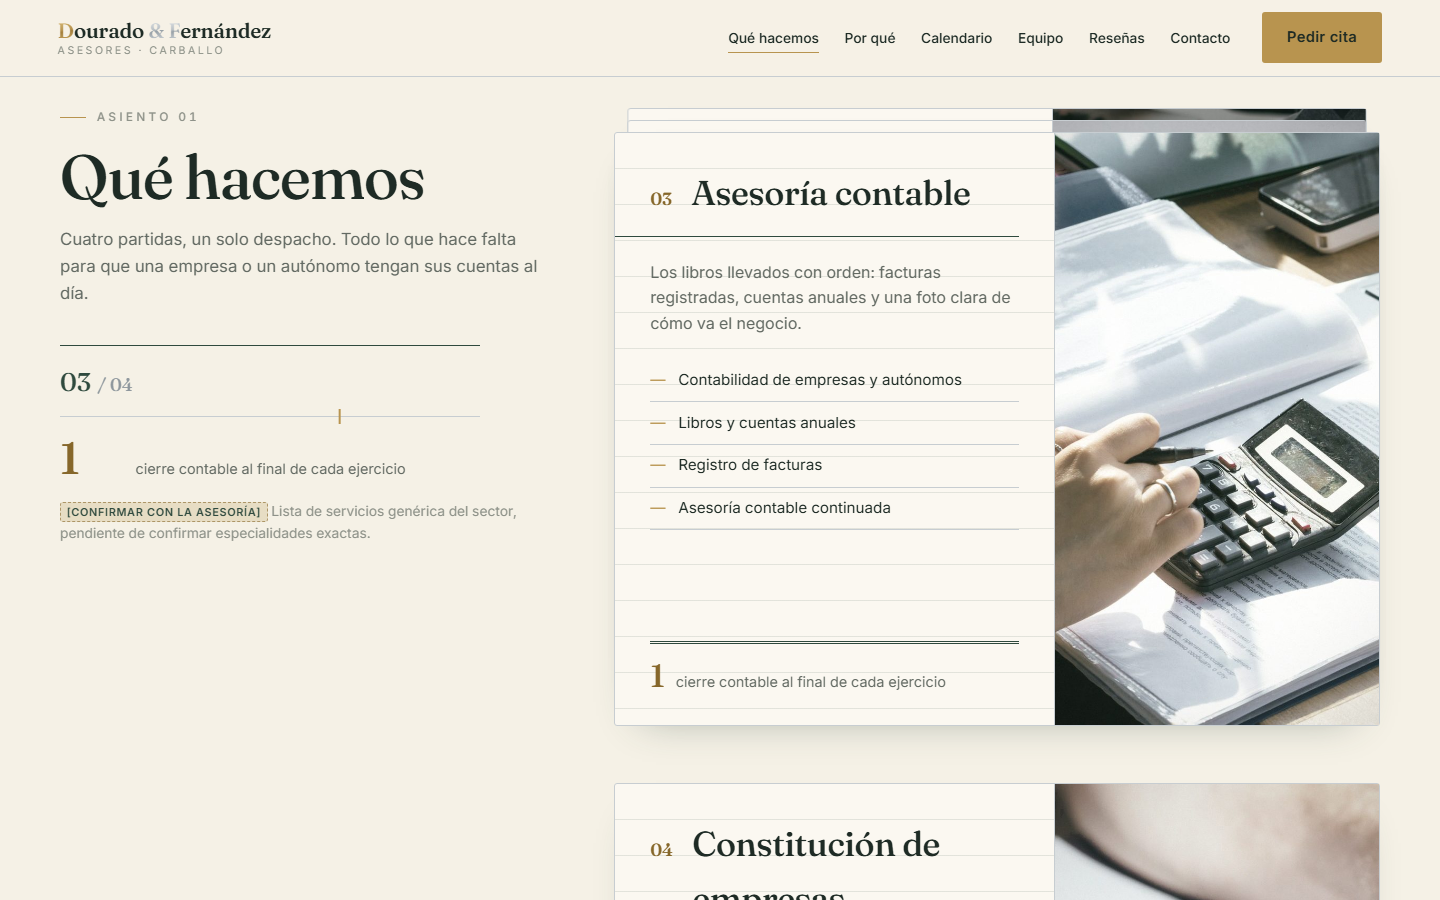
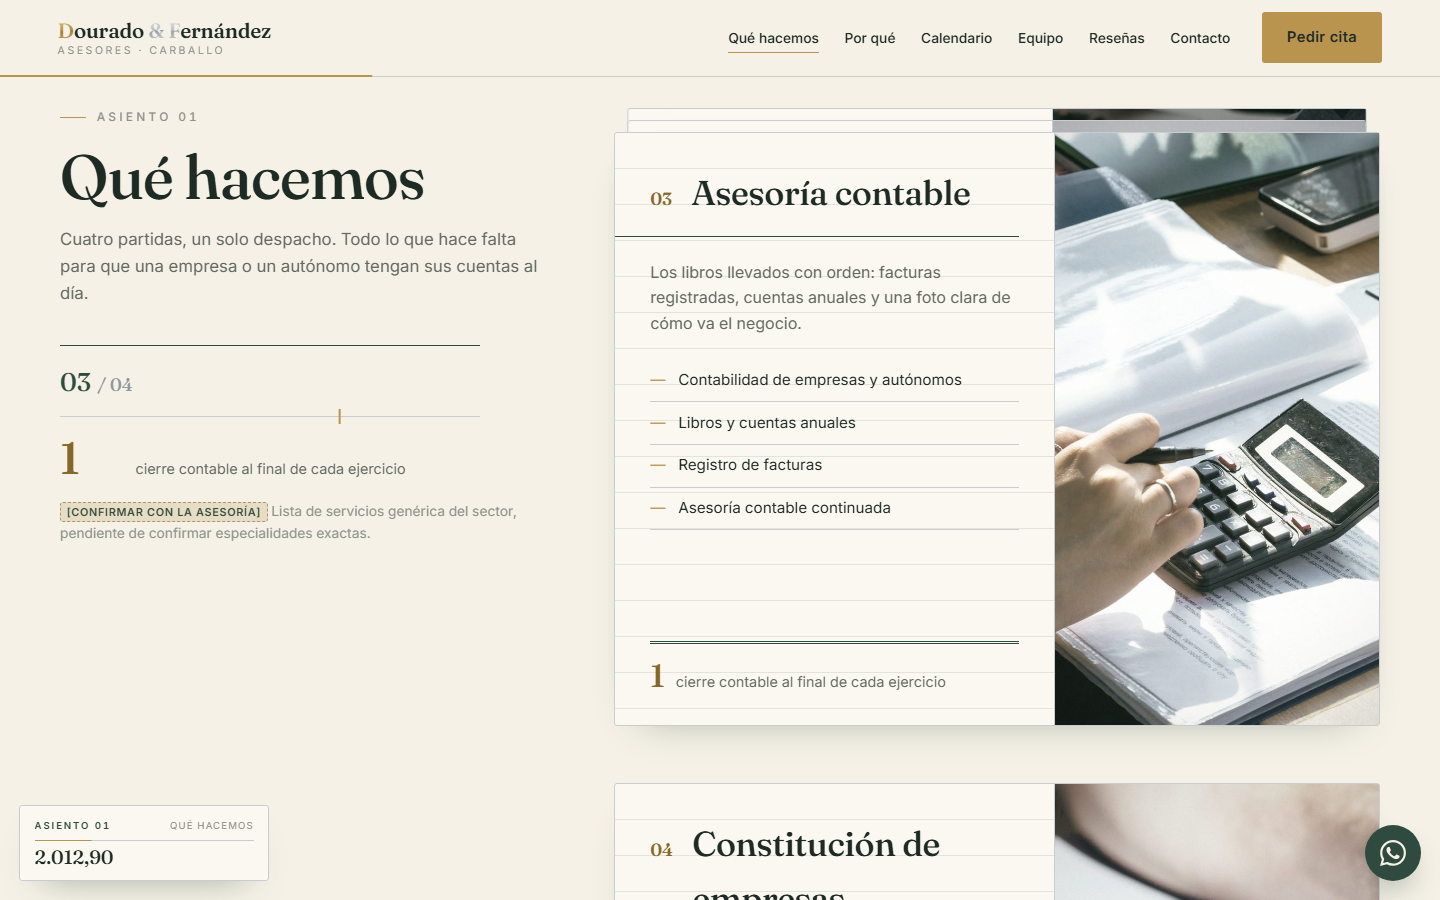
WhatsApp flotante y progreso de scroll como saldo que cuadra
Regla de oro bajo la cabecera y ficha fija con el asiento actual y una
cifra que cuenta de 0,00 a 7.786,00 con el scroll y cierra con ✓ Cuadra.
Botón de WhatsApp magnético con etiqueta desplegable; el número (fijo
del despacho) queda marcado como pendiente de confirmar. 66/66 pruebas.

Changed region(s): [[0.0312, 0.9022, 0.1562, 0.9956], [0.9375, 0.9022, 1.0, 0.9956], [0.125, 0.9022, 0.1562, 0.9333]]

diff --git a/scripts/verify.js b/scripts/verify.js
@@ -92,6 +92,15 @@ const angulo = m => Math.round(Math.atan2(m.b, m.a) * 180 / Math.PI * 100) / 100
 
     await page.screenshot({ path: path.join(CAPS, 'hero-1440.png') });
 
+    /* en la portada, la ficha de progreso y el WhatsApp aún no se ven y el saldo está a 0 */
+    const flotAntes = await page.evaluate(() => ({
+      prog: parseFloat(getComputedStyle(document.querySelector('.progreso')).opacity),
+      wa: parseFloat(getComputedStyle(document.querySelector('.whatsapp-wrap')).opacity),
+      regla: new DOMMatrix(getComputedStyle(document.querySelector('.top-progreso')).transform).a,
+      saldo: document.querySelector('[data-progreso-cifra]').textContent.trim()
+    }));
+    ok('en la portada los flotantes están ocultos y el saldo a 0,00', flotAntes.prog < 0.05 && flotAntes.wa < 0.05 && flotAntes.regla < 0.02 && flotAntes.saldo === '0,00', flotAntes);
+
     /* ---------- 2. cookies ---------- */
     ok('el aviso de cookies aparece', await page.isVisible('.cookie-banner'));
     await page.click('.cookie-ack');
@@ -210,6 +219,43 @@ const angulo = m => Math.round(Math.atan2(m.b, m.a) * 180 / Math.PI * 100) / 100
       claro: document.querySelector('.top').classList.contains('top--claro')
     }));
     ok('la cabecera pasa a tinta clara solo cuando el pie verde queda debajo', pie.claro === pie.solapa, pie);
+
+    /* ---------- 7b. progreso de scroll y WhatsApp ---------- */
+    await page.waitForTimeout(700);
+    const flotFin = await page.evaluate(() => ({
+      prog: parseFloat(getComputedStyle(document.querySelector('.progreso')).opacity),
+      wa: parseFloat(getComputedStyle(document.querySelector('.whatsapp-wrap')).opacity),
+      regla: new DOMMatrix(getComputedStyle(document.querySelector('.top-progreso')).transform).a,
+      marca: new DOMMatrix(getComputedStyle(document.querySelector('.progreso-marca')).transform).a,
+      saldo: document.querySelector('[data-progreso-cifra]').textContent.trim(),
+      cuadra: document.querySelector('.progreso').classList.contains('progreso--cuadra'),
+      check: parseFloat(getComputedStyle(document.querySelector('.progreso-check')).opacity),
+      asiento: document.querySelector('[data-progreso-num]').textContent.trim(),
+      href: document.querySelector('.whatsapp').href
+    }));
+    ok('al final del scroll la regla de oro llega al 100 %', flotFin.regla > 0.99 && flotFin.marca > 0.99, flotFin);
+    ok('el saldo del progreso cuadra en 7.786,00 con ✓', flotFin.saldo === '7.786,00' && flotFin.cuadra && flotFin.check > 0.95, flotFin);
+    ok('la ficha de progreso muestra el último asiento', flotFin.asiento === 'Asiento 06', flotFin.asiento);
+    ok('la ficha de progreso y el WhatsApp son visibles fuera de la portada', flotFin.prog > 0.95 && flotFin.wa > 0.95, flotFin);
+    ok('el WhatsApp enlaza a wa.me con el teléfono del despacho', flotFin.href.startsWith('https://wa.me/34981702760'), flotFin.href);
+
+    /* a mitad de página el saldo va por la mitad y el asiento es intermedio */
+    await page.evaluate(() => window.scrollTo(0, (document.body.scrollHeight - innerHeight) * 0.5));
+    await page.waitForTimeout(900);
+    const flotMitad = await page.evaluate(() => ({
+      saldo: parseFloat(document.querySelector('[data-progreso-cifra]').textContent.replace('.', '').replace(',', '.')),
+      cuadra: document.querySelector('.progreso').classList.contains('progreso--cuadra'),
+      asiento: document.querySelector('[data-progreso-num]').textContent.trim()
+    }));
+    ok('a mitad de página el saldo va por la mitad y aún no cuadra', flotMitad.saldo > 3500 && flotMitad.saldo < 4300 && !flotMitad.cuadra && flotMitad.asiento !== 'Asiento 01' && flotMitad.asiento !== 'Asiento 06', flotMitad);
+
+    /* la etiqueta del WhatsApp se despliega al pasar el ratón */
+    const anchoAntes = await page.evaluate(() => document.querySelector('.whatsapp').getBoundingClientRect().width);
+    await page.hover('.whatsapp');
+    await page.waitForTimeout(700);
+    const anchoDespues = await page.evaluate(() => document.querySelector('.whatsapp').getBoundingClientRect().width);
+    ok('la etiqueta del WhatsApp se despliega al pasar el ratón', anchoDespues > anchoAntes + 80, { anchoAntes, anchoDespues });
+    await page.screenshot({ path: path.join(CAPS, 'progreso-1440.png') });
     await page.screenshot({ path: path.join(CAPS, 'pie-1440.png') });
 
     await page.close();
@@ -239,6 +285,14 @@ const angulo = m => Math.round(Math.atan2(m.b, m.a) * 180 / Math.PI * 100) / 100
     ok('reduced-motion: cifras, total y sello ya resueltos', estado.cifras && estado.total === '7.786,00' && parseFloat(estado.sello) > 0.95, estado);
     ok('reduced-motion: los bloques ya son visibles', parseFloat(estado.bloque) > 0.95 && parseFloat(estado.wm) > 0.95, estado);
     ok('reduced-motion: sin smooth scroll (Lenis)', estado.lenis === false, estado);
+    await page.evaluate(() => window.scrollTo(0, document.body.scrollHeight));
+    await page.waitForTimeout(500);
+    const rmProg = await page.evaluate(() => ({
+      saldo: document.querySelector('[data-progreso-cifra]').textContent.trim(),
+      regla: new DOMMatrix(getComputedStyle(document.querySelector('.top-progreso')).transform).a,
+      wa: parseFloat(getComputedStyle(document.querySelector('.whatsapp-wrap')).opacity)
+    }));
+    ok('reduced-motion: el progreso sigue el scroll sin suavizado y el WhatsApp está visible', rmProg.saldo === '7.786,00' && rmProg.regla > 0.99 && rmProg.wa > 0.95, rmProg);
     ok('reduced-motion sin errores JS', page.errores.length === 0, page.errores);
     await page.screenshot({ path: path.join(CAPS, 'reduced-motion.png') });
     await page.close();
@@ -276,6 +330,17 @@ const angulo = m => Math.round(Math.atan2(m.b, m.a) * 180 / Math.PI * 100) / 100
       });
       ok('a 400px el hero apila texto y libro en una columna', libro.apiladas, libro);
       ok('a 400px el libro cabe sin recortar cifras', !libro.desborda && libro.recortes === 0, libro);
+      await page.evaluate(() => window.scrollTo(0, document.body.scrollHeight / 2));
+      await page.waitForTimeout(900);
+      const flotMovil = await page.evaluate(() => {
+        const wa = document.querySelector('.whatsapp').getBoundingClientRect();
+        return {
+          fichaOculta: getComputedStyle(document.querySelector('.progreso')).display === 'none',
+          waVisible: parseFloat(getComputedStyle(document.querySelector('.whatsapp-wrap')).opacity) > 0.95 && wa.right <= innerWidth && wa.bottom <= innerHeight,
+          regla: new DOMMatrix(getComputedStyle(document.querySelector('.top-progreso')).transform).a
+        };
+      });
+      ok('a 400px se oculta la ficha de progreso, queda la regla y el WhatsApp cabe en pantalla', flotMovil.fichaOculta && flotMovil.waVisible && flotMovil.regla > 0.3, flotMovil);
       await page.screenshot({ path: path.join(CAPS, 'hero-400.png') });
     }
     await page.evaluate(() => window.scrollTo(0, document.body.scrollHeight / 2));

diff --git a/css/style.css b/css/style.css
@@ -418,6 +418,50 @@ figcaption { font-size: 0.74rem; color: var(--tinta-3); margin-top: 0.6rem; lett
 .pie-legal { display: flex; gap: 1.4rem; margin: 0; font-size: 0.84rem; }
 .pie-copy { margin-left: auto; font-size: 0.8rem; color: color-mix(in srgb, var(--crema) 60%, transparent); margin-bottom: 0; }
 
+/* ---------- progreso de scroll: la regla y el saldo que cuadra ---------- */
+
+.top-progreso {
+  position: absolute; left: 0; right: 0; bottom: -1px; height: 2px; background: var(--oro);
+  transform-origin: left center; transform: scaleX(0); pointer-events: none;
+}
+.progreso {
+  position: fixed; left: 1.2rem; bottom: 1.2rem; z-index: 40; width: 250px;
+  display: grid; gap: 0.45rem; padding: 0.75rem 0.9rem 0.7rem;
+  background: color-mix(in srgb, var(--papel-claro) 94%, transparent); backdrop-filter: blur(8px);
+  border: 1px solid var(--plata); border-radius: var(--radio);
+  box-shadow: 0 18px 36px -24px color-mix(in srgb, var(--verde) 55%, transparent);
+  font-size: 0.6rem; letter-spacing: 0.2em; text-transform: uppercase; color: var(--tinta-3);
+  opacity: 0; transform: translateY(12px); pointer-events: none;
+}
+.no-js .progreso, .no-js .top-progreso, .no-js .whatsapp-wrap { display: none; }
+.progreso-asiento { display: flex; justify-content: space-between; gap: 0.6rem; white-space: nowrap; overflow: hidden; }
+.progreso-asiento b { color: var(--verde); font-weight: 600; }
+.progreso-asiento span { overflow: hidden; text-overflow: ellipsis; letter-spacing: 0.12em; }
+.progreso-regla { position: relative; height: 1px; background: var(--plata); }
+.progreso-marca { position: absolute; inset: 0; background: var(--oro); transform-origin: left center; transform: scaleX(0); }
+.progreso-saldo { display: flex; justify-content: space-between; align-items: baseline; gap: 0.6rem; letter-spacing: 0; text-transform: none; }
+.progreso-saldo .serif { font-size: 1.2rem; color: var(--tinta); font-variant-numeric: tabular-nums; font-weight: 500; line-height: 1; transition: color 0.4s; }
+.progreso-check { font-size: 0.6rem; letter-spacing: 0.2em; text-transform: uppercase; font-weight: 600; color: var(--oro-tinta); opacity: 0; transform: translateX(6px); transition: opacity 0.4s, transform 0.4s; }
+.progreso--cuadra .progreso-check { opacity: 1; transform: none; }
+.progreso--cuadra .progreso-saldo .serif { color: var(--oro-tinta); }
+
+/* ---------- WhatsApp flotante ---------- */
+
+.whatsapp-wrap { position: fixed; right: 1.2rem; bottom: 1.2rem; z-index: 40; opacity: 0; transform: translateY(12px); }
+.whatsapp {
+  display: flex; align-items: center; flex-direction: row; height: 56px; border-radius: 999px;
+  background: var(--verde); color: var(--crema);
+  box-shadow: 0 16px 32px -16px color-mix(in srgb, var(--verde-oscuro) 80%, transparent);
+  transition: background-color 0.25s;
+}
+.whatsapp:hover { background: var(--verde-oscuro); }
+.whatsapp svg { width: 56px; height: 56px; padding: 15px; flex-shrink: 0; display: block; }
+.whatsapp-etiqueta {
+  max-width: 0; overflow: hidden; white-space: nowrap; font-size: 0.82rem; font-weight: 600; letter-spacing: 0.01em;
+  padding-left: 0; transition: max-width 0.45s cubic-bezier(0.2, 0.7, 0.2, 1), padding-left 0.45s;
+}
+.whatsapp:hover .whatsapp-etiqueta, .whatsapp:focus-visible .whatsapp-etiqueta { max-width: 240px; padding-left: 1.2rem; }
+
 /* ---------- cookies y diálogos ---------- */
 
 .cookie-banner {
@@ -455,7 +499,7 @@ html.lenis, html.lenis body { height: auto; }
   .gsap .regla-cifra, .gsap .libro-regla { transform: none; }
   .lc.cifra { color: var(--tinta); font-style: normal; }
   .hero-scroll span { animation: none; transform: none; }
-  .top, .btn, .top-nav a::after, .menu-btn span { transition: none; }
+  .top, .btn, .top-nav a::after, .menu-btn span, .whatsapp-etiqueta, .progreso-check, .progreso-saldo .serif { transition: none; }
 }
 
 /* ---------- responsive ---------- */
@@ -503,6 +547,8 @@ html.lenis, html.lenis body { height: auto; }
   .pie-datos { grid-template-columns: 1fr; }
   .pie-copy { margin-left: 0; }
   .cookie-banner { left: 0.6rem; right: 0.6rem; bottom: 0.6rem; }
+  .progreso { display: none; }   /* en móvil queda la regla de oro bajo la cabecera */
+  .whatsapp-wrap { right: 0.9rem; bottom: 0.9rem; }
   .tarjeta-cab, .tarjeta-cuerpo { padding-left: 1.3rem; padding-right: 1.3rem; }
   .tarjeta-cab { margin-right: 1.3rem; }
 }

diff --git a/index.html b/index.html
@@ -46,7 +46,7 @@
 <link rel="preconnect" href="https://fonts.googleapis.com">
 <link rel="preconnect" href="https://fonts.gstatic.com" crossorigin>
 <link href="https://fonts.googleapis.com/css2?family=Fraunces:ital,opsz,wght@0,9..144,300..700;1,9..144,300..600&family=Inter:wght@400;500;600&display=swap" rel="stylesheet">
-<link rel="stylesheet" href="css/style.css?v=1">
+<link rel="stylesheet" href="css/style.css?v=2">
 <script>document.documentElement.classList.remove('no-js');document.documentElement.classList.add('js');</script>
 </head>
 <body>
@@ -75,7 +75,24 @@
   <button class="menu-btn" type="button" aria-expanded="false" aria-controls="menu-movil" aria-label="Abrir menú">
     <span></span><span></span>
   </button>
+  <!-- progreso de scroll: la regla de oro avanza bajo la cabecera -->
+  <span class="top-progreso" aria-hidden="true"></span>
 </header>
+
+<!-- progreso de scroll como saldo: el asiento actual y una cifra que va cuadrando -->
+<div class="progreso" aria-hidden="true">
+  <span class="progreso-asiento"><b data-progreso-num>Asiento 01</b><span data-progreso-nombre>Qué hacemos</span></span>
+  <span class="progreso-regla"><span class="progreso-marca"></span></span>
+  <span class="progreso-saldo"><span class="serif" data-progreso-cifra>0,00</span><span class="progreso-check">✓ Cuadra</span></span>
+</div>
+
+<!-- WhatsApp: el número es el fijo del despacho; pendiente de confirmar que tiene WhatsApp -->
+<div class="whatsapp-wrap">
+  <a class="whatsapp magnetico" href="https://wa.me/34981702760?text=Hola%2C%20quiero%20pedir%20cita%20con%20Dourado%20%26%20Fern%C3%A1ndez%20Asesores." target="_blank" rel="noopener" aria-label="Escríbenos por WhatsApp">
+    <span class="whatsapp-etiqueta">Escríbenos por WhatsApp</span>
+    <svg viewBox="0 0 24 24" aria-hidden="true"><path fill="currentColor" d="M17.472 14.382c-.297-.149-1.758-.867-2.03-.967-.273-.099-.471-.148-.67.15-.197.297-.767.966-.94 1.164-.173.199-.347.223-.644.075-.297-.15-1.255-.463-2.39-1.475-.883-.788-1.48-1.761-1.653-2.059-.173-.297-.018-.458.13-.606.134-.133.298-.347.446-.52.149-.174.198-.298.298-.497.099-.198.05-.371-.025-.52-.075-.149-.669-1.612-.916-2.207-.242-.579-.487-.5-.669-.51-.173-.008-.371-.01-.57-.01-.198 0-.52.074-.792.372-.272.297-1.04 1.016-1.04 2.479 0 1.462 1.065 2.875 1.213 3.074.149.198 2.096 3.2 5.077 4.487.709.306 1.262.489 1.694.625.712.227 1.36.195 1.871.118.571-.085 1.758-.719 2.006-1.413.248-.694.248-1.289.173-1.413-.074-.124-.272-.198-.57-.347m-5.421 7.403h-.004a9.87 9.87 0 0 1-5.031-1.378l-.361-.214-3.741.982.998-3.648-.235-.374a9.86 9.86 0 0 1-1.51-5.26c.001-5.45 4.436-9.884 9.888-9.884 2.64 0 5.122 1.03 6.988 2.898a9.825 9.825 0 0 1 2.893 6.994c-.003 5.45-4.437 9.885-9.885 9.885m8.413-18.297A11.815 11.815 0 0 0 12.05 0C5.495 0 .16 5.335.157 11.892c0 2.096.547 4.142 1.588 5.945L.057 24l6.305-1.654a11.882 11.882 0 0 0 5.683 1.448h.005c6.554 0 11.89-5.335 11.893-11.893a11.821 11.821 0 0 0-3.48-8.413z"/></svg>
+  </a>
+</div>
 
 <nav class="menu-movil" id="menu-movil" hidden aria-label="Menú móvil">
   <a href="#que-hacemos">Qué hacemos</a>
@@ -496,6 +513,10 @@
           </dd>
         </div>
         <div class="ficha-fila cuadrar">
+          <dt>WhatsApp</dt>
+          <dd><a href="https://wa.me/34981702760" target="_blank" rel="noopener">981 70 27 60</a> <span class="pendiente-tag">[CONFIRMAR NÚMERO DE WHATSAPP]</span></dd>
+        </div>
+        <div class="ficha-fila cuadrar">
           <dt>Email</dt>
           <dd><span class="pendiente-tag">[EMAIL PENDIENTE]</span></dd>
         </div>
@@ -574,6 +595,6 @@
 <script src="https://cdn.jsdelivr.net/npm/gsap@3.12.5/dist/gsap.min.js"></script>
 <script src="https://cdn.jsdelivr.net/npm/gsap@3.12.5/dist/ScrollTrigger.min.js"></script>
 <script src="https://cdn.jsdelivr.net/npm/lenis@1.1.18/dist/lenis.min.js"></script>
-<script src="js/main.js?v=1"></script>
+<script src="js/main.js?v=2"></script>
 </body>
 </html>

diff --git a/js/main.js b/js/main.js
@@ -342,6 +342,78 @@
     if (candidata) candidata.classList.add("proximo");
   })();
 
+  /* ---------- progreso de scroll: el saldo que cuadra ---------- */
+
+  var progreso = document.querySelector(".progreso");
+  var topProgreso = document.querySelector(".top-progreso");
+  var whatsapp = document.querySelector(".whatsapp-wrap");
+  var progMarca = progreso && progreso.querySelector(".progreso-marca");
+  var progCifra = progreso && progreso.querySelector("[data-progreso-cifra]");
+  var progNum = progreso && progreso.querySelector("[data-progreso-num]");
+  var progNombre = progreso && progreso.querySelector("[data-progreso-nombre]");
+  var SALDO_FINAL = 7786;
+
+  if (progreso && topProgreso) {
+    var suave = { p: 0 };
+    var ultimaCifra = "";
+    var pintarProgreso = function () {
+      var p = suave.p;
+      gsap.set([topProgreso, progMarca], { scaleX: p });
+      var texto = formatear(SALDO_FINAL * p, 2);
+      if (texto !== ultimaCifra) { progCifra.textContent = texto; ultimaCifra = texto; }
+      progreso.classList.toggle("progreso--cuadra", p > 0.985);
+    };
+    var irProgreso = reduce
+      ? function (p) { suave.p = p; pintarProgreso(); }
+      : gsap.quickTo(suave, "p", { duration: 0.55, ease: "power3.out", onUpdate: pintarProgreso });
+
+    ScrollTrigger.create({
+      trigger: document.body, start: "top top", end: "bottom bottom",
+      onUpdate: function (self) { irProgreso(self.progress); }
+    });
+    pintarProgreso();
+
+    /* el asiento actual */
+    document.querySelectorAll("main .seccion").forEach(function (sec) {
+      var eyebrow = sec.querySelector(".eyebrow");
+      var h2 = sec.querySelector("h2");
+      if (!eyebrow || !h2) return;
+      var num = eyebrow.textContent.trim();
+      var nombre = h2.getAttribute("aria-label") || h2.textContent.trim();
+      ScrollTrigger.create({
+        trigger: sec, start: "top 50%", end: "bottom 50%",
+        onToggle: function (self) {
+          if (!self.isActive || progNum.textContent === num) return;
+          if (reduce) { progNum.textContent = num; progNombre.textContent = nombre; return; }
+          gsap.to([progNum, progNombre], {
+            opacity: 0, y: -4, duration: 0.18, ease: "power2.in", overwrite: true,
+            onComplete: function () {
+              progNum.textContent = num; progNombre.textContent = nombre;
+              gsap.fromTo([progNum, progNombre], { opacity: 0, y: 5 }, { opacity: 1, y: 0, duration: 0.4, ease: "power3.out" });
+            }
+          });
+        }
+      });
+    });
+
+    /* la ficha y el WhatsApp aparecen al dejar atrás la portada */
+    var flotantes = [progreso, whatsapp].filter(Boolean);
+    if (reduce) {
+      gsap.set(flotantes, { opacity: 1, y: 0 });
+    } else {
+      /* solo importa cruzar el inicio hacia abajo (aparecen) o hacia arriba (se van):
+         con onToggle se irían también al llegar al final de la página (progress 1) */
+      var mostrarFlotantes = function (si) {
+        gsap.to(flotantes, { opacity: si ? 1 : 0, y: si ? 0 : 12, duration: 0.5, ease: "power3.out", stagger: 0.08, overwrite: true });
+      };
+      ScrollTrigger.create({
+        trigger: ".marquee", start: "top 92%",
+        onEnter: function () { mostrarFlotantes(true); },
+        onLeaveBack: function () { mostrarFlotantes(false); }
+      });
+    }
+  }
+
   /* ---------- marquee ---------- */
 
   var pista = document.querySelector(".marquee-pista");

diff --git a/README.md b/README.md
@@ -23,6 +23,10 @@ Sitio estático sin build: `index.html` + `css/style.css` + `js/main.js`. GSAP 3
 8. **Asiento 06 — Contacto.** Ficha en renglones: teléfono grande, dirección, horario en tres líneas, email pendiente, Facebook, y el mapa de Google por consentimiento.
 9. **Pie** en verde botella, el «cierre del balance»: wordmark claro (D oro, &F plata), datos, `Saldo: 0,00 ✓`, diálogos legales.
 
+**Progreso de scroll — el saldo que cuadra.** Dos piezas fijas, ambas escondidas en la portada y visibles al cruzar el marquee: una **regla de oro** que avanza bajo la cabecera (`.top-progreso`, `scaleX` = progreso) y una **ficha** abajo a la izquierda (`.progreso`) con el asiento actual (`Asiento 03 · Calendario fiscal`, cambia con un fundido al cruzar cada sección), una regla con marca y una cifra en serif que cuenta de **0,00 a 7.786,00** con el scroll (suavizada con `quickTo`, 0,55 s) y cierra con **✓ Cuadra** al llegar al final. En móvil (≤760 px) solo queda la regla. Con reduced-motion sigue el scroll sin suavizado.
+
+**WhatsApp flotante** abajo a la derecha (`.whatsapp`): píldora verde botella con el glifo en crema, magnética, cuya etiqueta «Escríbenos por WhatsApp» se despliega al pasar el ratón o al enfocar con teclado. Enlaza a `wa.me/34981702760` con un mensaje prellenado. **El número es el fijo del despacho y no está confirmado que tenga WhatsApp**: la ficha de contacto lo marca con `[CONFIRMAR NÚMERO DE WHATSAPP]`; si es otro número, cambiar el `href` en dos sitios de `index.html` (botón flotante y ficha).
+
 Los bloques con clase `.cuadrar` entran desplazados (28 px) y girados 0,9° hacia un lado (`data-lado`) y se corrigen con `power3.out` en 0,85 s. Reglas finas horizontales separan todo como renglones; los totales llevan doble regla.
 
 ## Datos reales usados (facilitados por el cliente, publicados tal cual)
@@ -41,6 +45,7 @@ Los bloques con clase `.cuadrar` entran desplazados (28 px) y girados 0,9° haci
 - **[AÑOS DE ACTIVIDAD PENDIENTE]**, **[EMAIL PENDIENTE]**, **[PRECIO PENDIENTE]** (no se publica ninguna tarifa).
 - **[NOMBRE ASESOR/A PENDIENTE]** ×2, **[CARGO PENDIENTE]** ×2, **[BIO PENDIENTE]** ×2, **[FOTO PENDIENTE]** ×2, **[EQUIPO PENDIENTE]** — se muestran dos huecos por los dos apellidos del nombre comercial; el número real de personas está por confirmar.
 - **[TEXTO DE RESEÑA PENDIENTE]** ×3 y **[NOMBRE PENDIENTE]** ×3 — no se transcribe ninguna reseña hasta recibir capturas o el enlace. La nota y el número sí son reales.
+- **[CONFIRMAR NÚMERO DE WHATSAPP]** — el botón flotante usa el fijo 981 70 27 60.
 - **[NIF PENDIENTE]**, **[DATOS REGISTRALES PENDIENTES]**, **[POLÍTICA COMPLETA PENDIENTE]**.
 - **[LOGO PROVISIONAL]** — ver abajo.
 - **Botón «Sitio web» de la ficha de Google**: no se facilitó la URL, así que no se ha consultado ni se enlaza. Si existe una web activa, conviene revisarla solo como fuente de datos.
@@ -86,6 +91,6 @@ python -m http.server 8952
 NODE_PATH=<node_modules con playwright> node scripts/verify.js
 ```
 
-`scripts/verify.js` (56 pruebas, informe en `scripts/verify-report.json`, capturas en `screenshots/`): columnas descuadradas a mitad de intro y alineadas al final, cifras resueltas, totales 7.786,00, regla y sello; degradados oro/plata en las letras del wordmark; cookies (aparece, cierra de verdad, se recuerda); longtasks; todos los `.cuadrar` a 0°; sticky stack (índice, regla, tarjeta activa visible y encima, tarjetas tapadas encogidas, renglón cambiando); contadores de balance, calendario y reseñas; fila «próximo»; mapa solo al pulsar y sin API key; diálogos; reduced-motion; sin JS; sin scroll horizontal a 1440/1024/768/400/360; menú móvil.
+`scripts/verify.js` (66 pruebas, informe en `scripts/verify-report.json`, capturas en `screenshots/`): columnas descuadradas a mitad de intro y alineadas al final, cifras resueltas, totales 7.786,00, regla y sello; degradados oro/plata en las letras del wordmark; cookies (aparece, cierra de verdad, se recuerda); longtasks; todos los `.cuadrar` a 0°; sticky stack (índice, regla, tarjeta activa visible y encima, tarjetas tapadas encogidas, renglón cambiando); contadores de balance, calendario y reseñas; fila «próximo»; mapa solo al pulsar y sin API key; diálogos; reduced-motion; sin JS; sin scroll horizontal a 1440/1024/768/400/360; menú móvil; progreso de scroll (oculto en portada, saldo a mitad y 7.786,00 ✓ al final, asiento actual, regla al 100 %) y WhatsApp (enlace, etiqueta desplegable, cabe en pantalla a 400 px).
 
 Dos bugs reales los cazó esta verificación antes de darla por buena: la **D, & y F del hero no se pintaban** (el degradado `background-clip: text` del contenedor no llega a los spans transformados del char-reveal; ahora va en cada letra) y la **tarjeta 03 del stack quedaba invisible** (un scrub sobre la opacidad arrancaba en 0 y pisaba la animación de entrada; el scrub ahora solo escala).
